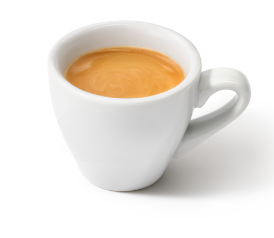
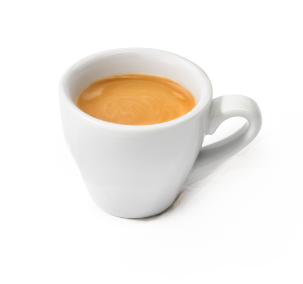
picture changes

Changed region(s): [[0.1752, 0.0882, 0.9635, 0.8529]]

diff --git a/menu.html b/menu.html
@@ -61,8 +61,8 @@
                 <div class="col-lg-6">
                     <div class="row align-items-center mb-5">
                         <div class="col-4 col-sm-3">
-                            <img class="menu-img rounded-circle mb-3 mb-sm-0" src="espresso-1.jpeg" alt="">
-                            <h5 class="menu-price">3€</h5>
+                            <img class="menu-img rounded-circle mb-3 mb-sm-0" src="images/coffeeimages/Espresso.png" alt="">
+                            <h5 class="menu-price">€3</h5>
                         </div>
                         <div class="col-8 col-sm-9">
                             <h4>Espresso</h4>
@@ -71,7 +71,7 @@
                     </div>
                     <div class="row align-items-center mb-5">
                         <div class="col-4 col-sm-3">
-                            <img class="menu-img rounded-circle mb-3 mb-sm-0" src="americano.jpeg" alt="">
+                            <img class="menu-img rounded-circle mb-3 mb-sm-0" src="images/coffeeimages/Americano.png" alt="">
                             <h5 class="menu-price">€3</h5>
                         </div>
                         <div class="col-8 col-sm-9">
@@ -81,7 +81,7 @@
                     </div>
                     <div class="row align-items-center mb-5">
                         <div class="col-4 col-sm-3">
-                            <img class="menu-img rounded-circle mb-3 mb-sm-0" src="cappuccino.jpg" alt="">
+                            <img class="menu-img rounded-circle mb-3 mb-sm-0" src="images/coffeeimages/Cappucino.png" alt="">
                             <h5 class="menu-price">€4</h5>
                         </div>
                         <div class="col-8 col-sm-9">
@@ -93,7 +93,7 @@
                 <div class="col-lg-6">
                     <div class="row align-items-center mb-5">
                         <div class="col-4 col-sm-3">
-                            <img class="menu-img rounded-circle mb-3 mb-sm-0" src="latte.jpeg" alt="">
+                            <img class="menu-img rounded-circle mb-3 mb-sm-0" src="images/coffeeimages/latte.png" alt="">
                             <h5 class="menu-price">€4</h5>
                         </div>
                         <div class="col-8 col-sm-9">
@@ -103,7 +103,7 @@
                     </div>
                     <div class="row align-items-center mb-5">
                         <div class="col-4 col-sm-3">
-                            <img class="menu-img rounded-circle mb-3 mb-sm-0" src="cortado.jpg" alt="">
+                            <img class="menu-img rounded-circle mb-3 mb-sm-0" src="images/coffeeimages/cortado.png" alt="">
                             <h5 class="menu-price">€3</h5>
                         </div>
                         <div class="col-8 col-sm-9">
@@ -113,12 +113,12 @@
                     </div>
                     <div class="row align-items-center mb-5">
                         <div class="col-4 col-sm-3">
-                            <img class="menu-img rounded-circle mb-3 mb-sm-0" src="babyccino.jpeg" alt="">
-                            <h5 class="menu-price">€2</h5>
+                            <img class="menu-img rounded-circle mb-3 mb-sm-0" src="images/coffeeimages/mocha.png" alt="">
+                            <h5 class="menu-price">€4</h5>
                         </div>
                         <div class="col-8 col-sm-9">
-                            <h4>Babyccino</h4>
-                            <p class="m-0">Lightly frothed milk. No coffee, just comforting goodness in a tiny cup.</p>
+                            <h4>Mocha</h4>
+                            <p class="m-0">Steamed chocolate milk blended with espresso for the tastiest treat.</p>
                         </div>
                     </div>
                 </div>
@@ -148,8 +148,8 @@
                 <div class="col-lg-6">
                     <div class="row align-items-center mb-5">
                         <div class="col-4 col-sm-3">
-                            <img class="menu-img rounded-circle mb-3 mb-sm-0" src="espresso-1.jpeg" alt="">
-                            <h5 class="menu-price">3€</h5>
+                            <img class="menu-img rounded-circle mb-3 mb-sm-0" src="images/coffeeimages/tea.png" alt="">
+                            <h5 class="menu-price">€3</h5>
                         </div>
                         <div class="col-8 col-sm-9">
                             <h4>Classic Breakfast Tea</h4>
@@ -158,7 +158,7 @@
                     </div>
                     <div class="row align-items-center mb-5">
                         <div class="col-4 col-sm-3">
-                            <img class="menu-img rounded-circle mb-3 mb-sm-0" src="americano.jpeg" alt="">
+                            <img class="menu-img rounded-circle mb-3 mb-sm-0" src="images/coffeeimages/earlgrey.png" alt="">
                             <h5 class="menu-price">€3</h5>
                         </div>
                         <div class="col-8 col-sm-9">
@@ -168,19 +168,19 @@
                     </div>
                     <div class="row align-items-center mb-5">
                         <div class="col-4 col-sm-3">
-                            <img class="menu-img rounded-circle mb-3 mb-sm-0" src="cappuccino.jpg" alt="">
+                            <img class="menu-img rounded-circle mb-3 mb-sm-0" src="images/coffeeimages/green.png" alt="">
                             <h5 class="menu-price">€4</h5>
                         </div>
                         <div class="col-8 col-sm-9">
                             <h4>Green Tea</h4>
-                            <p class="m-0">Dried green tea from Eastern China. Made from Camellia leaves and buds</p>
+                            <p class="m-0">Dried green tea from Eastern China. Made from Camellia leaves and buds.</p>
                         </div>
                     </div>
                 </div>
                 <div class="col-lg-6">
                     <div class="row align-items-center mb-5">
                         <div class="col-4 col-sm-3">
-                            <img class="menu-img rounded-circle mb-3 mb-sm-0" src="latte.jpeg" alt="">
+                            <img class="menu-img rounded-circle mb-3 mb-sm-0" src="images/coffeeimages/mint.png" alt="">
                             <h5 class="menu-price">€4</h5>
                         </div>
                         <div class="col-8 col-sm-9">
@@ -190,8 +190,8 @@
                     </div>
                     <div class="row align-items-center mb-5">
                         <div class="col-4 col-sm-3">
-                            <img class="menu-img rounded-circle mb-3 mb-sm-0" src="cortado.jpg" alt="">
-                            <h5 class="menu-price">€3</h5>
+                            <img class="menu-img rounded-circle mb-3 mb-sm-0" src="images/coffeeimages/berry.png" alt="">
+                            <h5 class="menu-price">€4</h5>
                         </div>
                         <div class="col-8 col-sm-9">
                             <h4>Berry Tea</h4>
@@ -200,12 +200,12 @@
                     </div>
                     <div class="row align-items-center mb-5">
                         <div class="col-4 col-sm-3">
-                            <img class="menu-img rounded-circle mb-3 mb-sm-0" src="babyccino.jpeg" alt="">
-                            <h5 class="menu-price">€2</h5>
+                            <img class="menu-img rounded-circle mb-3 mb-sm-0" src="images/coffeeimages/herbal.png" alt="">
+                            <h5 class="menu-price">€4</h5>
                         </div>
                         <div class="col-8 col-sm-9">
                             <h4>Herbal Tea</h4>
-                            <p class="m-0">The right amount of ginger spiciness mixed with the sweetness of apple and cinnamon</p>
+                            <p class="m-0">The right amount of ginger spiciness mixed with the sweetness of apple and .</p>
                         </div>
                     </div>
                 </div>

diff --git a/about.html b/about.html
@@ -88,12 +88,12 @@
                     </div>
                     <div class="col-lg-7">
                         <div class="mb-4">
-                            <h5 class="text-uppercase">About Us</h5>
+                            <h5 class="text-uppercase about-header">About Us</h5>
                             <h1 class="display-4">We are Grounded</h1>
                         </div>
                         
                             
-                            <p>Grounded is more than just a place to grab a drink; we are committed to making a positive 
+                            <p>Grounded Cafe is more than just a place to grab a drink; we are committed to making a positive 
                             impact in the world and our values reflect this. By using our fairtrade coffee beans, we ensure 
                             that the farmers who grow their coffee are paid fairly for their work. We also prioritize using 
                             organic ingredients in all of our products. Our ethical suppliers go through a rigorous vetting
@@ -104,14 +104,13 @@
                             supporting a business that is doing good for both people and the planet.</p>
                             
                             <p>By sourcing our beans responsibly, lowering the carbon footprint of our supply chain, and 
-                            establishing urban farms in our own backyard, we are minimizing our negative environmental impact.</p>
-                            
-                            <p>We collaborate closely with Irish and international roasters to acquire some of the greatest
+                            establishing urban farms in our own backyard, we are minimizing our negative environmental impact.
+                            We collaborate closely with Irish and international roasters to acquire some of the greatest
                             coffees from around the world for you to enjoy here at the cafe.</p>
     
                             
-                            <p>We’ve learned through our many years of service in this field that providing care is a calling
-                            rather than just a job. </p>
+                            <p>Having a coffee is more than just a drink, it creates memories, build friendships and makes people 
+                            feel more comfortable in sharing a moment with others.</p>
                             
         
                     </div>

diff --git a/style.css b/style.css
@@ -279,7 +279,9 @@ footer {
     border-radius: 50%;
   }
 
-
+.about-header{
+  font-size: 26px;
+  }
 
   
   @media (max-width: 768px)  { 
